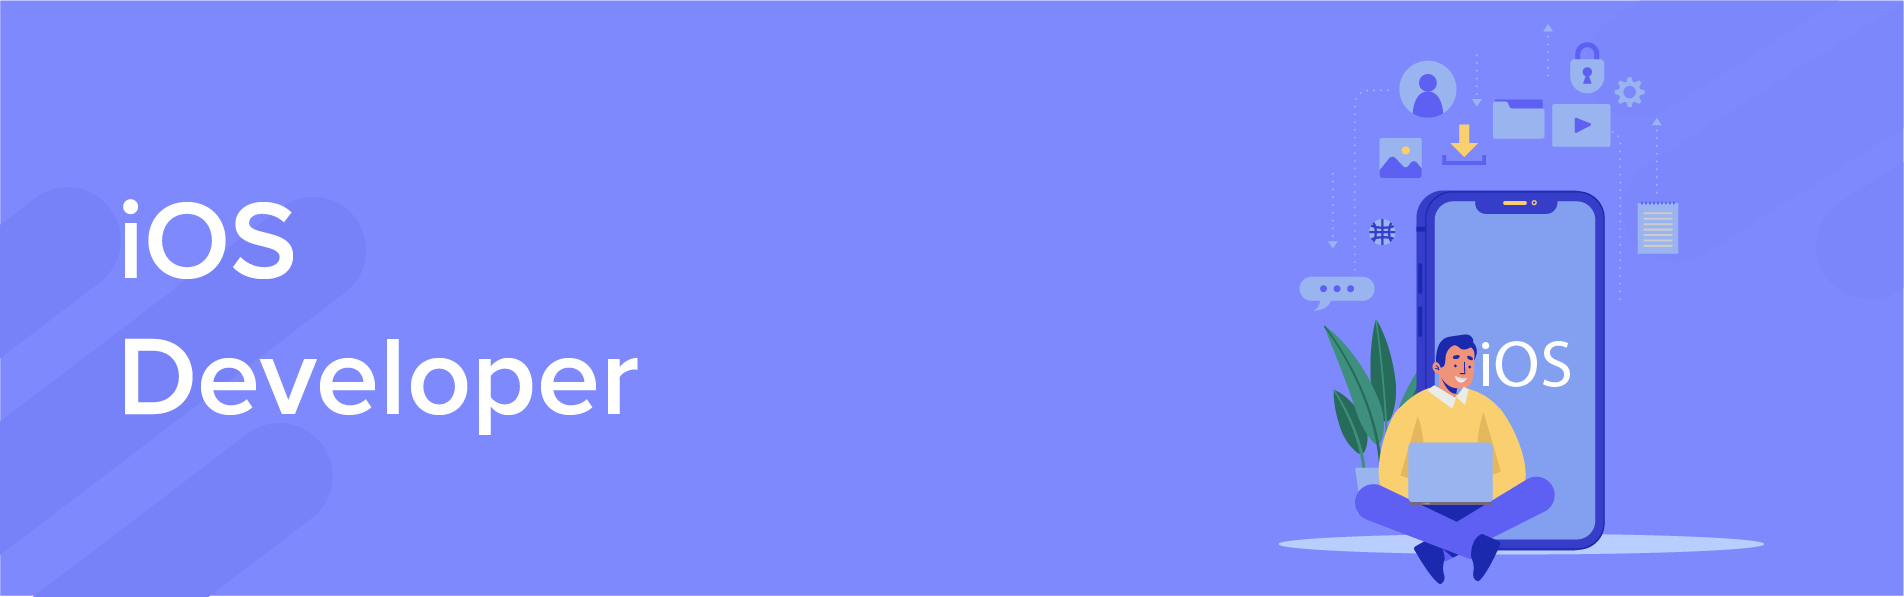
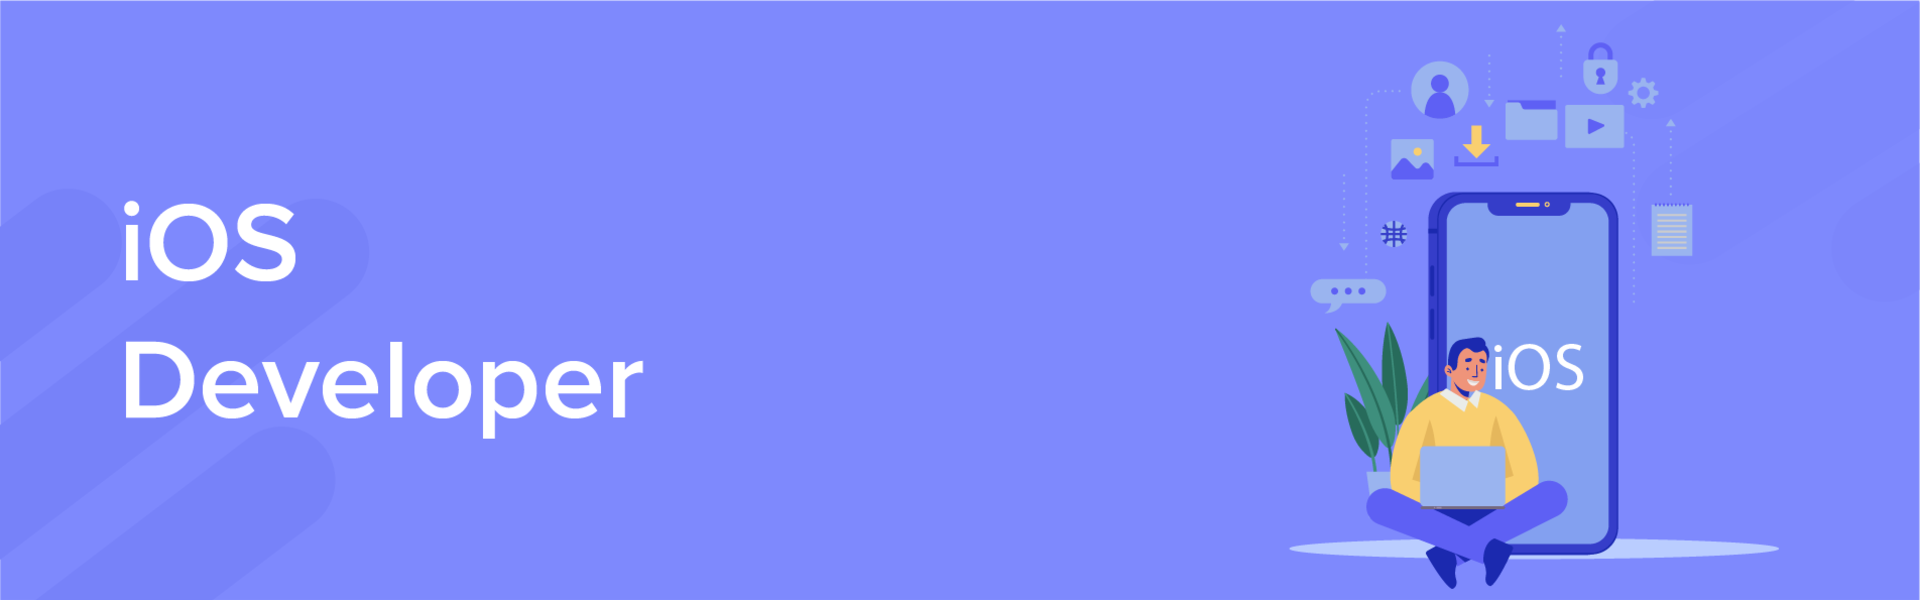
Fixed view on mobile devices

diff --git a/result.html b/result.html
@@ -16,37 +16,37 @@
 </head>
 
 <body>
-  <img src="./img/index.png" referrerpolicy="same-origin" class="col-12" style="height: 30vh; object-fit: cover">
+  <img src="./img/index.png" referrerpolicy="same-origin" class="col-12" style="object-fit: cover">
 
   <article class="container col-lg-12 mx-auto">
     <div class="row">
-      <p class="lead mb-6">
-        Поздравляем с прохождением теста
-      </p>
-      <p id="result"></p>
+      <h1>Результаты теста</h1>
 
+      <h2>1.Computer Science</h2>
       <div class="row">
-        <div class="col-1"></div>
-        <div class="col-1"></div>
-        <div class="col-1"></div>
-        <div class="col-1"></div>
-        <div class="col">1.Computer Science</div>
+        <div id="r10" class="col-2 col-m"></div>
+        <div id="r11" class="col-2 col-m"></div>
+        <div id="r12" class="col-2 col-m"></div>
+        <div id="r13" class="col-2 col-m"></div>
+        <div id="r14" class="col-2 col-m"></div>
       </div>
 
+      <h3>1.1.Алгоритмы и структуры данных</h3>
       <div class="row">
-        <div id="r11" class="col-1">-</div>
-        <div id="r12" class="col-1">-</div>
-        <div id="r13" class="col-1">-</div>
-        <div id="r14" class="col-1">-</div>
-        <div class="col">1.1.Алгоритмы и структуры данных</div>
+        <div id="r110" class="col-2 col-m"></div>
+        <div id="r111" class="col-2 col-m"></div>
+        <div id="r112" class="col-2 col-m"></div>
+        <div id="r113" class="col-2 col-m"></div>
+        <div id="r114" class="col-2 col-m"></div>
       </div>
 
+      <h3>1.2.ООП</h3>
       <div class="row">
-        <div id="r21" class="col-1">-</div>
-        <div id="r22" class="col-1">-</div>
-        <div id="r23" class="col-1">-</div>
-        <div id="r24" class="col-1">-</div>
-        <div class="col">1.2.ООП</div>
+        <div id="r120" class="col-2 col-m-1"></div>
+        <div id="r121" class="col-2 col-m-1"></div>
+        <div id="r122" class="col-2 col-m-1"></div>
+        <div id="r123" class="col-2 col-m-1"></div>
+        <div id="r124" class="col-2 col-m-1"></div>
       </div>
 
       <form action="index.html">
@@ -61,25 +61,29 @@
     const t1 = params.get("t1");
     const t2 = params.get("t2");
 
-    document.getElementById("r11").className += (t1 == "1") ? " bg-danger" : " bg-danger bg-opacity-25"
-    document.getElementById("r12").className += (t1 == "2") ? " bg-warning" : " bg-warning bg-opacity-25"
-    document.getElementById("r13").className += (t1 == "2" || t1 == "3") ? " bg-success" : " bg-success bg-opacity-25"
-    document.getElementById("r14").className += (t1 == "2" || t1 == "3") ? " bg-primary" : " bg-primary bg-opacity-25"
+    document.getElementById("r110").className += (t1 == "") ? " bg-secondary text-light" : " bg-secondary bg-opacity-25"
+    document.getElementById("r111").className += (t1 == "1") ? " bg-danger text-light" : " bg-danger bg-opacity-25"
+    document.getElementById("r112").className += (t1 == "2") ? " bg-warning" : " bg-warning bg-opacity-25"
+    document.getElementById("r113").className += (t1 == "2" || t1 == "3") ? " bg-success text-light" : " bg-success bg-opacity-25"
+    document.getElementById("r114").className += (t1 == "2" || t1 == "3") ? " bg-primary text-light" : " bg-primary bg-opacity-25"
 
-    document.getElementById("r21").className += (t2 == "1") ? " bg-danger" : " bg-danger bg-opacity-25"
-    document.getElementById("r22").className += (t2 == "2") ? " bg-warning" : " bg-warning bg-opacity-25"
-    document.getElementById("r23").className += (t2 == "2") ? " bg-success" : " bg-success bg-opacity-25"
-    document.getElementById("r24").className += (t2 == "2") ? " bg-primary" : " bg-primary bg-opacity-25"
+    document.getElementById("r120").className += (t2 == "") ? " bg-secondary text-light" : " bg-secondary bg-opacity-25"
+    document.getElementById("r121").className += (t2 == "1") ? " bg-danger text-light" : " bg-danger bg-opacity-25"
+    document.getElementById("r122").className += (t2 == "2") ? " bg-warning" : " bg-warning bg-opacity-25"
+    document.getElementById("r123").className += (t2 == "2") ? " bg-success text-light" : " bg-success bg-opacity-25"
+    document.getElementById("r124").className += (t2 == "2") ? " bg-primary text-light" : " bg-primary bg-opacity-25"
 
-    document.getElementById("r11").innerHTML = (t1 == "1") ? "Junior" : ""
-    document.getElementById("r12").innerHTML = (t1 == "2") ? "Middle" : ""
-    document.getElementById("r13").innerHTML = (t1 == "2" || t1 == "3") ? "Senior" : ""
-    document.getElementById("r14").innerHTML = (t1 == "2" || t1 == "3") ? "Master" : ""
+    document.getElementById("r110").innerHTML = (t1 == "") ? "Trainee" : ""
+    document.getElementById("r111").innerHTML = (t1 == "1") ? "Junior" : ""
+    document.getElementById("r112").innerHTML = (t1 == "2") ? "Middle" : ""
+    document.getElementById("r113").innerHTML = (t1 == "2" || t1 == "3") ? "Senior" : ""
+    document.getElementById("r114").innerHTML = (t1 == "2" || t1 == "3") ? "Master" : ""
 
-    document.getElementById("r21").innerHTML = (t2 == "1") ? "Junior" : ""
-    document.getElementById("r22").innerHTML = (t2 == "2") ? "Middle" : ""
-    document.getElementById("r23").innerHTML = (t2 == "2") ? "Senior" : ""
-    document.getElementById("r24").innerHTML = (t2 == "2") ? "Master" : ""
+    document.getElementById("r120").innerHTML = (t2 == "") ? "Trainee" : ""
+    document.getElementById("r121").innerHTML = (t2 == "1") ? "Junior" : ""
+    document.getElementById("r122").innerHTML = (t2 == "2") ? "Middle" : ""
+    document.getElementById("r123").innerHTML = (t2 == "2") ? "Senior" : ""
+    document.getElementById("r124").innerHTML = (t2 == "2") ? "Master" : ""
   </script>
 
 </body>

diff --git a/index.html b/index.html
@@ -16,21 +16,25 @@
 </head>
 
 <body>
-  <img src="img/index.png" referrerpolicy="same-origin" class="col-12" style="height: 30vh; object-fit: cover">
+  <img src="img/index.png" referrerpolicy="same-origin" class="col-12" style="object-fit: cover">
 
   <article class="container col-lg-12 mx-auto">
-    <div class="row">
-      <p class="lead mb-6">
-        Выбери один наиболее подходящий вариант ответа в каждом вопросе.<br />
-        При выборе учитывай, что должны быть выполнены и пункты с меньшим номером.<br />
-        Например выбирая 4 - должны быть выполнены пункты 1, 2 и 3<br />
-        Если знаний не хватает даже для пункта 1 - то выбирай 0<br />
-      </p>
-      <form action="questions.html">
-        <button type="submit" class="btn btn-primary mt-3">Начать</button>
-      </form>
-    </div>
-    </div>
+    <h2>Как проходить тест</h2>
+    <p class="lead mb-6">
+      Выбери один наиболее подходящий вариант ответа в каждом вопросе
+    </p>
+    <p class="lead mb-6">
+      Учитывай, что должны быть выполнены и пункты с меньшим номером
+    </p>
+    <p class="lead mb-6">
+      Например выбирая 4 - должны быть выполнены пункты 1, 2 и 3
+    </p>
+    <p class="lead mb-6">
+      Если знаний не хватает даже для пункта 1 - то выбирай 0<br />
+    </p>
+    <form action="questions.html">
+      <button type="submit" class="btn btn-primary mt-3">Начать</button>
+    </form>
   </article>
 
 </body>

diff --git a/questions.html b/questions.html
@@ -13,7 +13,7 @@
 </head>
 
 <body>
-  <img src="img/index.png" referrerpolicy="same-origin" class="col-12" style="height: 30vh; object-fit: cover">
+  <img src="img/index.png" referrerpolicy="same-origin" class="col-12" style="object-fit: cover">
 
   <form action="result.html" id="questions" class="container mt-3">
 
@@ -21,7 +21,7 @@
       <h2>Computer Science (1 из 8)</h2>
       <h3>Алгоритмы и структуры данных (1 из 5)</h3>
       <div class="form-check">
-        <input type="radio" class="form-check-input" id="radio10" name="t1" value="0">
+        <input type="radio" class="form-check-input" id="radio10" name="t1" value="">
         <label class="form-check-label" for="radio10">0 — Не знаю</label>
       </div>
       <br />
@@ -60,7 +60,7 @@
       <h2>Computer Science (1 из 8)</h2>
       <h3>ООП (2 из 5)</h3>
       <div class="form-check">
-        <input type="radio" class="form-check-input" id="radio20" name="t2" value="0">
+        <input type="radio" class="form-check-input" id="radio20" name="t2" value="">
         <label class="form-check-label" for="radio20">0 — Не знаю</label>
       </div>
       <br />
